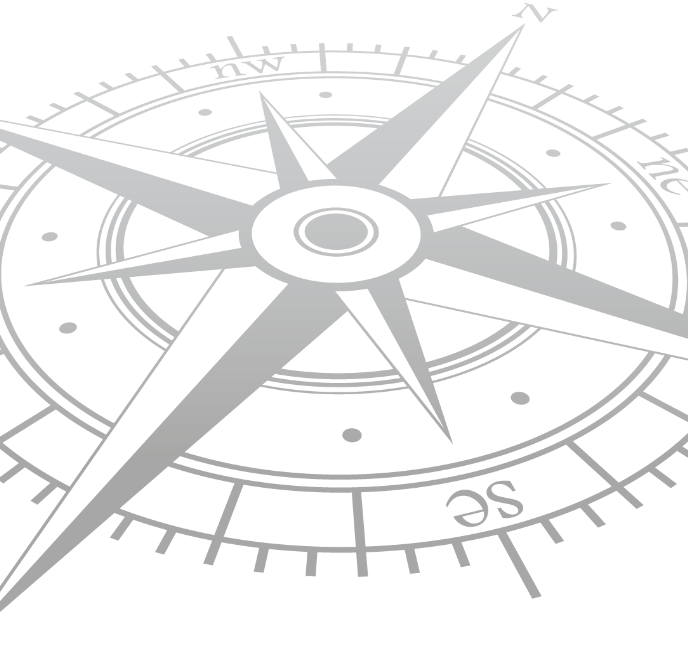
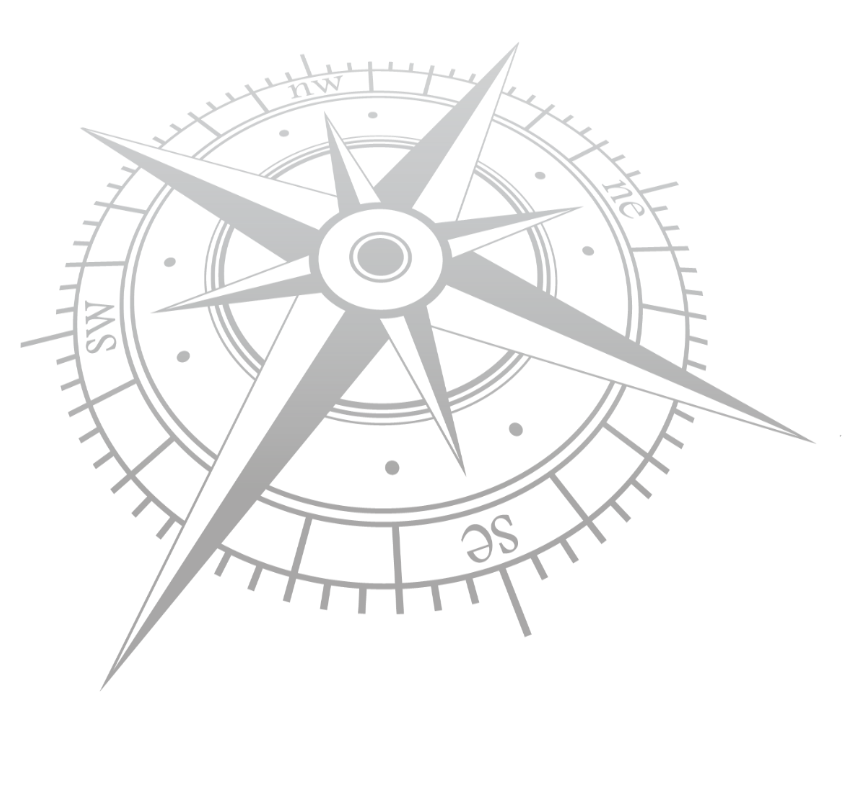
funcionando, faltando tratar erros

diff --git a/src/styles/global.ts b/src/styles/global.ts
@@ -1,5 +1,6 @@
-import {createGlobalStyle} from 'styled-components'
+import { createGlobalStyle } from 'styled-components';
 
+import background from '../images/background.png'
 
 export default createGlobalStyle`
 * {
@@ -10,7 +11,7 @@ export default createGlobalStyle`
      }
 
      body {
-         background: #f0f0f5;
+         background: #f0f0f5 url(${background}) no-repeat 70% top;
          -webkit-font-smoothing: antialiased;
      }
 
@@ -29,5 +30,3 @@ export default createGlobalStyle`
      }
 
 `;
-
-

diff --git a/src/pages/Index/index.tsx b/src/pages/Index/index.tsx
@@ -64,7 +64,7 @@ const Index: React.FC = () => {
               <ul>
                 <li>Código do IBGE: {addres.cidade_info.codigo_ibge}</li>
                 <li>Área em km²: {addres.cidade_info.area_km2}</li>
-                  <li> CEP: {addres.cep}</li>
+                <li> CEP: {addres.cep}</li>
               </ul>
             </div>
           </Link>
